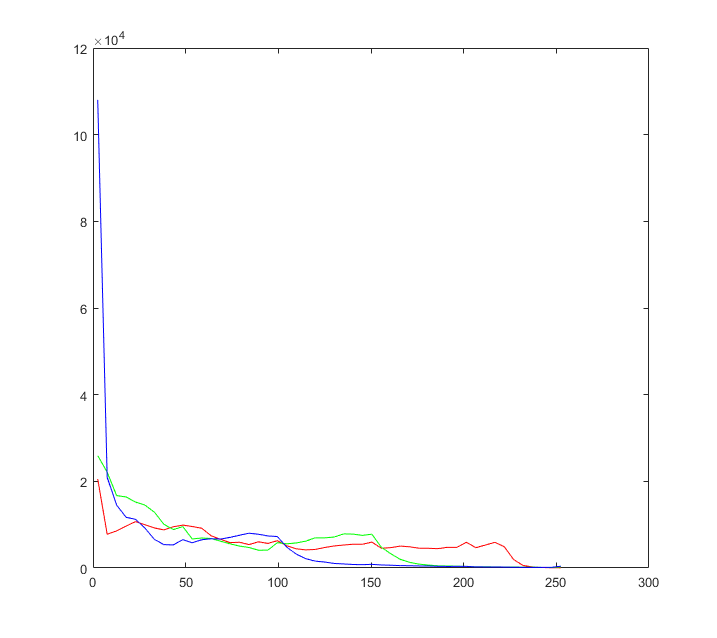
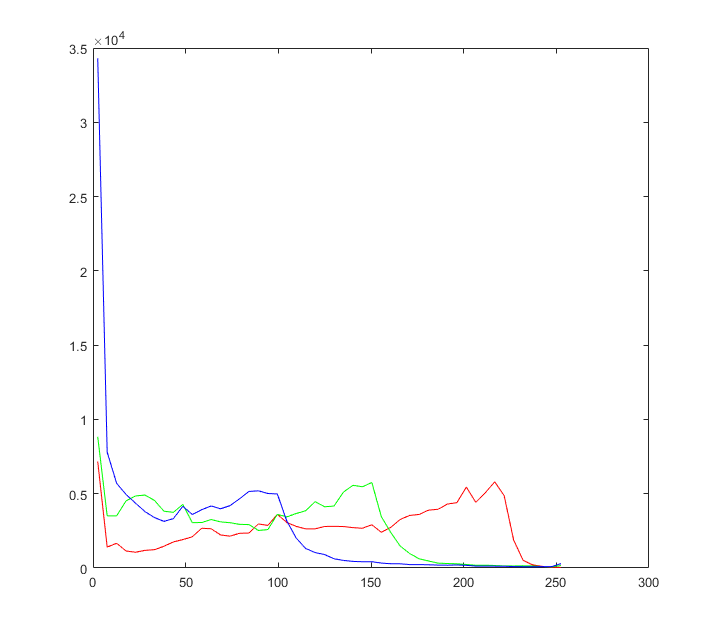
Had to update mistake in lab 1

diff --git a/Lab1/html/Lab1.html b/Lab1/html/Lab1.html
@@ -6,7 +6,7 @@
    <!--
 This HTML was auto-generated from MATLAB code.
 To make changes, update the MATLAB code and republish this document.
-      --><title>Lab1</title><meta name="generator" content="MATLAB 8.6"><link rel="schema.DC" href="http://purl.org/dc/elements/1.1/"><meta name="DC.date" content="2018-01-10"><meta name="DC.source" content="Lab1.m"><style type="text/css">
+      --><title>EE152 Lab 1</title><meta name="generator" content="MATLAB 8.6"><link rel="schema.DC" href="http://purl.org/dc/elements/1.1/"><meta name="DC.date" content="2018-01-10"><meta name="DC.source" content="Lab1.m"><style type="text/css">
 html,body,div,span,applet,object,iframe,h1,h2,h3,h4,h5,h6,p,blockquote,pre,a,abbr,acronym,address,big,cite,code,del,dfn,em,font,img,ins,kbd,q,s,samp,small,strike,strong,sub,sup,tt,var,b,u,i,center,dl,dt,dd,ol,ul,li,fieldset,form,label,legend,table,caption,tbody,tfoot,thead,tr,th,td{margin:0;padding:0;border:0;outline:0;font-size:100%;vertical-align:baseline;background:transparent}body{line-height:1}ol,ul{list-style:none}blockquote,q{quotes:none}blockquote:before,blockquote:after,q:before,q:after{content:'';content:none}:focus{outine:0}ins{text-decoration:none}del{text-decoration:line-through}table{border-collapse:collapse;border-spacing:0}
 
 html { min-height:100%; margin-bottom:1px; }
@@ -66,7 +66,7 @@ table td { padding:7px 5px; text-align:left; vertical-align:top; border:1px soli
 
 
 
-  </style></head><body><div class="content"><h2>Contents</h2><div><ul><li><a href="#1">Reset the Program</a></li><li><a href="#2">Load the image</a></li><li><a href="#3">Display the image</a></li><li><a href="#6">Resizing the Image</a></li><li><a href="#7">Cropping face image</a></li><li><a href="#8">Replacing Face Region with colored boxes</a></li><li><a href="#15">Resize face image</a></li><li><a href="#16">Save Images</a></li><li><a href="#18">Histograms of full image</a></li><li><a href="#21">Histograms of face image</a></li></ul></div><h2>Reset the Program<a name="1"></a></h2><pre class="codeinput">clear <span class="string">all</span>;
+  </style></head><body><div class="content"><h1>EE152 Lab 1</h1><!--introduction--><p>Souradeep Bhattacharya</p><!--/introduction--><h2>Contents</h2><div><ul><li><a href="#1">Reset the Program</a></li><li><a href="#2">Load the image</a></li><li><a href="#3">Display the image</a></li><li><a href="#6">Resizing the Image</a></li><li><a href="#7">Cropping face image</a></li><li><a href="#8">Replacing Face Region with colored boxes</a></li><li><a href="#15">Resize face image</a></li><li><a href="#16">Save Images</a></li><li><a href="#18">Histograms of full image</a></li><li><a href="#21">Histograms of face image</a></li></ul></div><h2>Reset the Program<a name="1"></a></h2><pre class="codeinput">clear <span class="string">all</span>;
 close <span class="string">all</span>;
 </pre><h2>Load the image<a name="2"></a></h2><p>Here I am going to read in the image and store it in a variable <i>img</i></p><pre class="codeinput">img = imread(<span class="string">'gogol.jpg'</span>);
 </pre><h2>Display the image<a name="3"></a></h2><p>Show the image with <tt>imshow()</tt></p><pre class="codeinput">imshow(img)
@@ -103,12 +103,14 @@ full_blue = double(img(:,:,3));
 </pre><img vspace="5" hspace="5" src="Lab1_08.png" alt=""> <h2>Histograms of face image<a name="21"></a></h2><p>Extract each of the color channels again converting it to doubles.</p><pre class="codeinput">face_red = double(face_img(:,:,1));
 face_green = double(face_img(:,:,2));
 face_blue = double(face_img(:,:,3));
-</pre><p>Get the histograms for each.</p><pre class="codeinput">[count_red_face, centers_red_face] = hist(full_red(:), nBins);
-[count_green_face, centers_green_face] = hist(full_green(:), nBins);
-[count_blue_face, centers_blue_face] = hist(full_blue(:), nBins);
+</pre><p>Get the histograms for each.</p><pre class="codeinput">[count_red_face, centers_red_face] = hist(face_red(:), nBins);
+[count_green_face, centers_green_face] = hist(face_green(:), nBins);
+[count_blue_face, centers_blue_face] = hist(face_blue(:), nBins);
 </pre><p>Plot it</p><pre class="codeinput">plot(centers_red_face, count_red_face, <span class="string">'Red'</span>, centers_green_face, count_green_face, <span class="string">'Green'</span>, centers_blue_face, count_blue_face, <span class="string">'Blue'</span>);
 </pre><img vspace="5" hspace="5" src="Lab1_09.png" alt=""> <p class="footer"><br><a href="http://www.mathworks.com/products/matlab/">Published with MATLAB&reg; R2015b</a><br></p></div><!--
 ##### SOURCE BEGIN #####
+%% EE152 Lab 1
+% Souradeep Bhattacharya
 %% Reset the Program
 clear all;
 close all;
@@ -205,9 +207,9 @@ face_blue = double(face_img(:,:,3));
 
 %%
 % Get the histograms for each.
-[count_red_face, centers_red_face] = hist(full_red(:), nBins);
-[count_green_face, centers_green_face] = hist(full_green(:), nBins);
-[count_blue_face, centers_blue_face] = hist(full_blue(:), nBins);
+[count_red_face, centers_red_face] = hist(face_red(:), nBins);
+[count_green_face, centers_green_face] = hist(face_green(:), nBins);
+[count_blue_face, centers_blue_face] = hist(face_blue(:), nBins);
 
 %%
 % Plot it

diff --git a/Lab1/Lab1.m b/Lab1/Lab1.m
@@ -1,3 +1,5 @@
+%% EE152 Lab 1
+% Souradeep Bhattacharya
 %% Reset the Program
 clear all;
 close all;
@@ -94,9 +96,9 @@ face_blue = double(face_img(:,:,3));
 
 %%
 % Get the histograms for each.
-[count_red_face, centers_red_face] = hist(full_red(:), nBins);
-[count_green_face, centers_green_face] = hist(full_green(:), nBins);
-[count_blue_face, centers_blue_face] = hist(full_blue(:), nBins);
+[count_red_face, centers_red_face] = hist(face_red(:), nBins);
+[count_green_face, centers_green_face] = hist(face_green(:), nBins);
+[count_blue_face, centers_blue_face] = hist(face_blue(:), nBins);
 
 %%
 % Plot it
